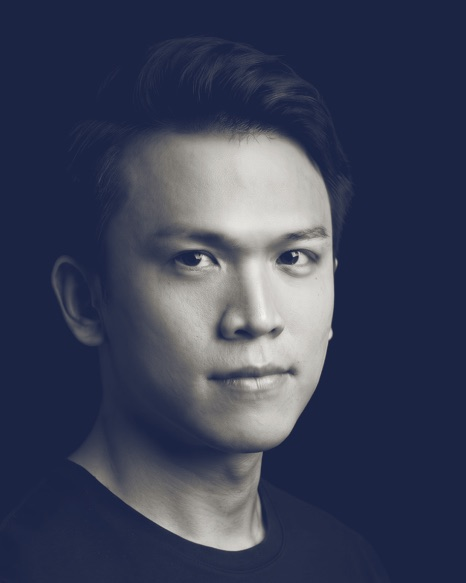
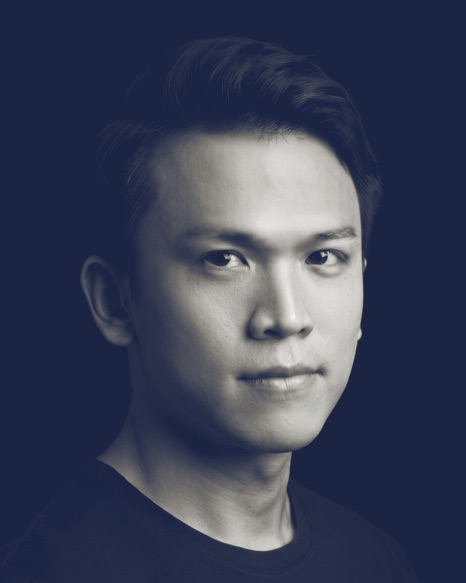
About portrait: centre MARK in the frame

diff --git a/index.html b/index.html
@@ -242,7 +242,7 @@
   <div class="about-grid">
     <aside class="about-side reveal">
       <figure class="portrait">
-        <img src="images/mark-portrait.jpg" srcset="images/mark-portrait.jpg 466w, images/mark-portrait@3x.jpg 699w" sizes="233px" width="466" height="583" loading="lazy" decoding="async" alt="MARK 的肖像照" data-alt-zh="MARK 的肖像照" data-alt-ja="MARK のポートレート" data-alt-en="Portrait of MARK">
+        <img src="images/mark-portrait.jpg?v=2" srcset="images/mark-portrait.jpg?v=2 466w, images/mark-portrait@3x.jpg?v=2 699w" sizes="233px" width="466" height="583" loading="lazy" decoding="async" alt="MARK 的肖像照" data-alt-zh="MARK 的肖像照" data-alt-ja="MARK のポートレート" data-alt-en="Portrait of MARK">
       </figure>
       <p class="about-name">MARK</p>
       <p class="about-role">JAPAN FIXER</p>
